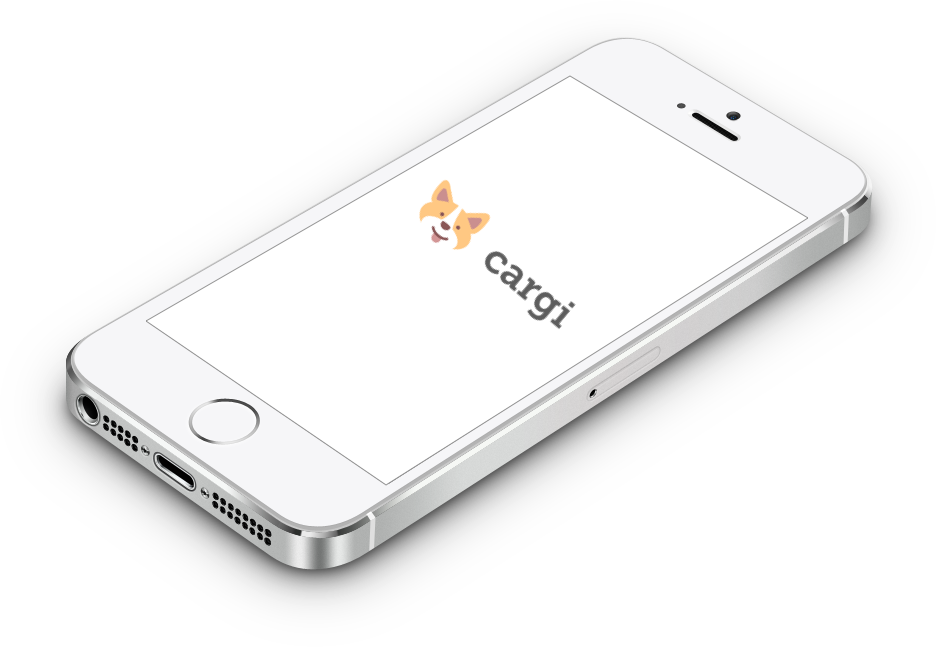
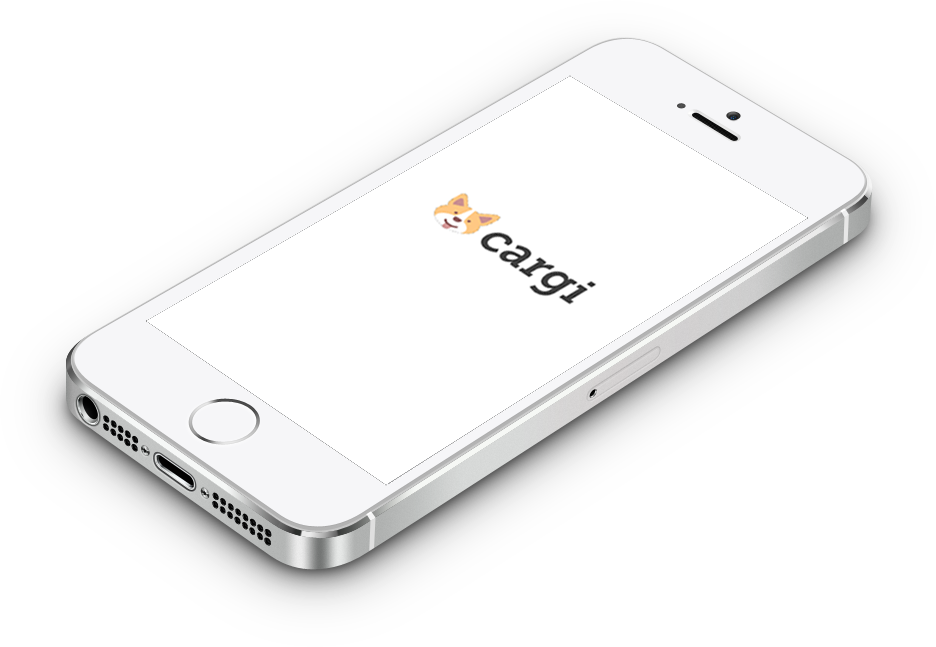
transparency

Changed region(s): [[0.4338, 0.2782, 0.6506, 0.5255]]

diff --git a/css/styles.css b/css/styles.css
@@ -324,4 +324,4 @@ Waypoints
 .delay-05s { animation-delay: 0.5s; -webkit-animation-delay: 0.5s; }
 .delay-1s { animation-delay: 1s; -webkit-animation-delay: 1s; }
 /*.wp3 { background: url('../img/cargi-iphone.png') no-repeat center center; background-position: 200px 10px; height: 100%;}*/
-.wp3 { background: url('../img/cargi-iphone.jpg') no-repeat center center; background-position: 100px 250; height: 110%; background-size: 120%;}
+.wp3 { background: url('../img/cargi-iphone.png') no-repeat center center; background-position: 100px 250; height: 110%; background-size: 120%;}
